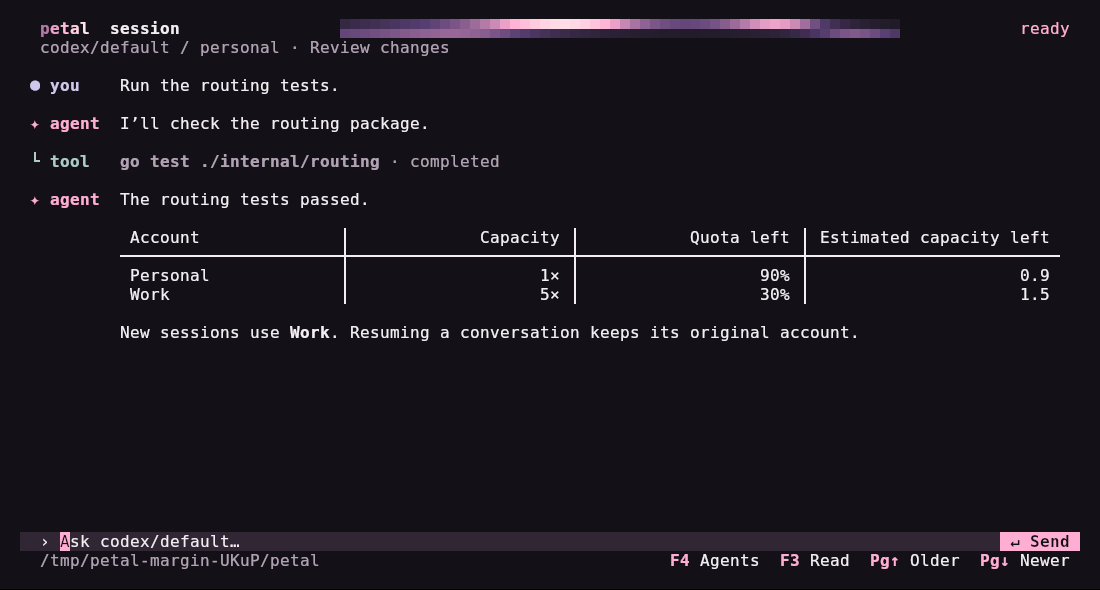
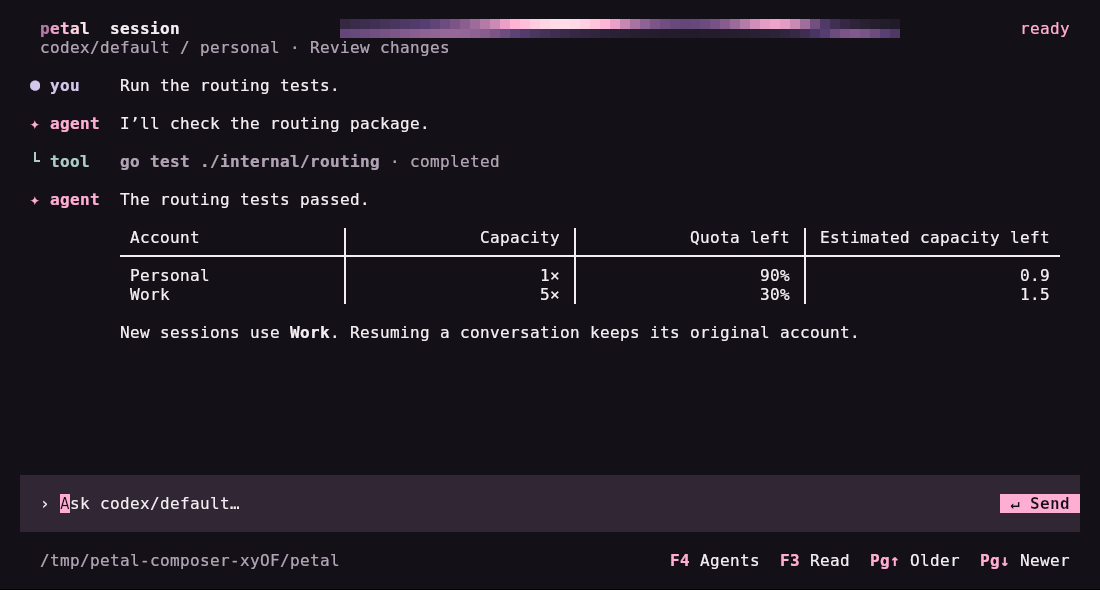
fix(tui): give the composer room above the shortcuts

Changed region(s): [[0.0, 0.7932, 0.9891, 0.9763]]

diff --git a/internal/tui/petal.go b/internal/tui/petal.go
@@ -112,6 +112,11 @@ func renderChat(v screen, hits *chatHitTargets) string {
 	if h >= 8 {
 		footer = 2
 	}
+	// Keep the composer compact when the terminal has few rows.
+	paddedInput := h >= 18
+	if paddedInput {
+		footer += 3 // Two rows inside the composer and one before the shortcuts.
+	}
 	header := min(1, h-footer)
 	route := strings.Trim(petalLabel(v.Model)+" / "+petalLabel(v.Account), " /")
 	status := petalLabel(v.Status)
@@ -221,10 +226,15 @@ func renderChat(v screen, hits *chatHitTargets) string {
 	for len(rows) < h-footer-menuHeight-menuHeading-(inputHeight-1) {
 		rows = append(rows, richBand("", w, petalText, v.background, false))
 	}
-	hits.action = image.Rect(w-aw, len(rows), w, len(rows)+1)
 	hits.actionKind = action
 	if menuHeight > 0 {
 		rows = appendCommandMenu(rows, v, hits, menuHeight, menuHeading > 0)
+	}
+	if paddedInput {
+		rows = append(rows, richBand("", w, petalText, petalSurface, false))
+	}
+	if menuHeight == 0 {
+		hits.action = image.Rect(w-aw, len(rows), w, len(rows)+1)
 	}
 	hits.question = v.question
 	if v.editor != nil && v.connection != connectionFailed && room+4 <= w {
@@ -243,7 +253,10 @@ func renderChat(v screen, hits *chatHitTargets) string {
 		}
 		rows = append(rows, richBand(prefix+line, w-aw, petalText, petalSurface, false)+richBand(button, aw, petalInk, petalRose, button != ""))
 	}
-	if footer == 2 {
+	if paddedInput {
+		rows = append(rows, richBand("", w, petalText, petalSurface, false), richBand("", w, petalText, v.background, false))
+	}
+	if h >= 8 {
 		hint := " " + chatHelp(v) + " "
 		if v.queued > 0 {
 			hint = fmt.Sprintf(" %d pending ", v.queued) + hint

diff --git a/internal/tui/petal_test.go b/internal/tui/petal_test.go
@@ -22,7 +22,7 @@ func TestPetalKeepsMultilineChromeOnItsOwnRows(t *testing.T) {
 	}{
 		{0, "status ready"},
 		{1, "model variant / account name"},
-		{25, "continued"},
+		{23, "continued"},
 		{26, "/tmp/line break"},
 	} {
 		if !strings.Contains(rows[want.row], want.text) {
